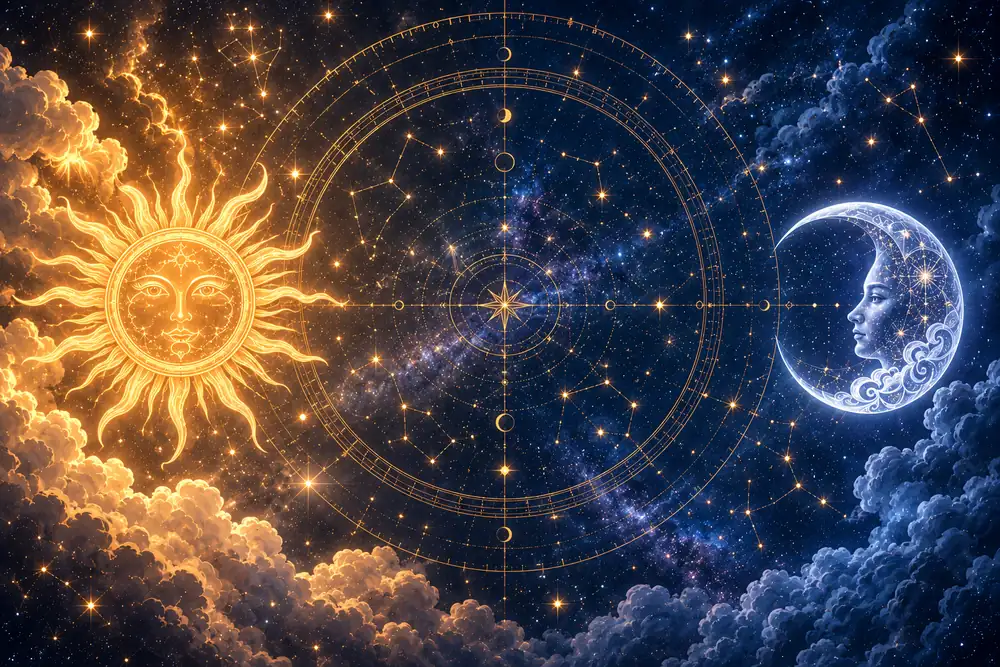
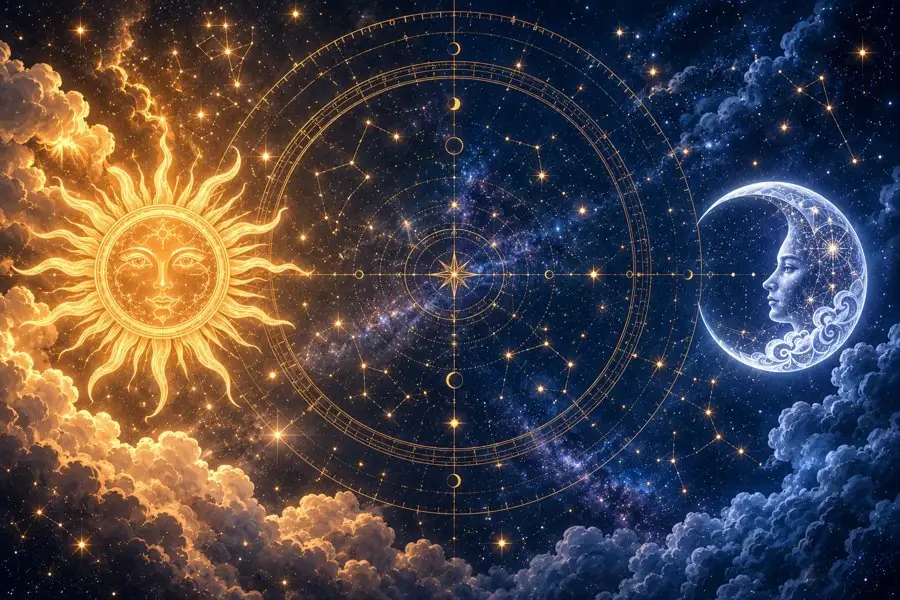
배경 중복 원본 삭제, 홈 연출 배경은 저장소의 bg_sunmoon.jpg에서 생성, 인계문 정정

diff --git a/HANDOFF.md b/HANDOFF.md
@@ -647,3 +647,8 @@ README "2주마다 하는 일" 그대로. 요점만:
 - 이미지 합계 캐릭터 186KB + 차트 41KB + 배경 114KB = 약 341KB(현재 히어로 148KB 대비 약 +190KB)
 - 확인 페이지(같은 주소) https://claude.ai/artifact/De13ZBSJVkefuS5k6Vdsa5 갱신: 다시 재생 데모 + 실제 홈에 끼운 휴대폰·PC 완료 상태. **아직 사이트에 안 올림 — 대표 "올려" 대기**
 - "올려" 시 작업: `public/img/hero/`에 character.webp·chart.svg·sun_moon_bg.webp 복사 → `build_home.py`의 `<figure class="portrait">`를 `.pa` 구조(`.pa-bgw > .pa-bg > img`, `.pa-wheel > img`, `.pa-char`, AI 안내 figcaption)로 교체하고 `hero_anim.css`를 홈 CSS에 추가, 기존 jeongwol.jpg는 `.portrait` 규칙과 함께 정리. LCP 이미지는 캐릭터에 `fetchpriority="high"`, 배경은 `decoding="async"`·`loading="lazy"` 불필요(첫 화면). 배포 반영은 이 환경에서 zaoseon.com 접속이 막혀 직접 확인 불가 → 대표 확인 요청
+
+### 10/2 밤: 정정 — 배경 이미지는 이미 저장소에 있었음 (대표: "이 이미지 이미 저장소에 있는데 또 뭔소리냐")
+- 업로드한 `태양과_달의_천상_궤도.png`는 **`sns-images/characters/cut/bg_sunmoon.jpg`(900x600)와 같은 그림**(비교 차이 0.4, 캐러셀 슬라이드 배경으로 이미 쓰는 파일). 새 자료로 취급해 `samples/hero_bg_2026-10-02/`에 3MB 원본을 중복 저장한 것은 실수 → **삭제함**
+- 홈 연출용 `meridian_intro/hero/sun_moon_bg.webp`는 이제 저장소의 `characters/cut/bg_sunmoon.jpg`에서 만듦(900px, 약 90KB대). 연출 모양은 그대로
+- 규칙: **대표가 이미지를 주면 먼저 두 저장소(`sns-images`, `zaoseon-site`)에서 같은 그림이 있는지 비교한 뒤** 새 자료일 때만 보관한다. 이미 있으면 기존 파일 경로를 쓰고 새로 저장하지 않는다
